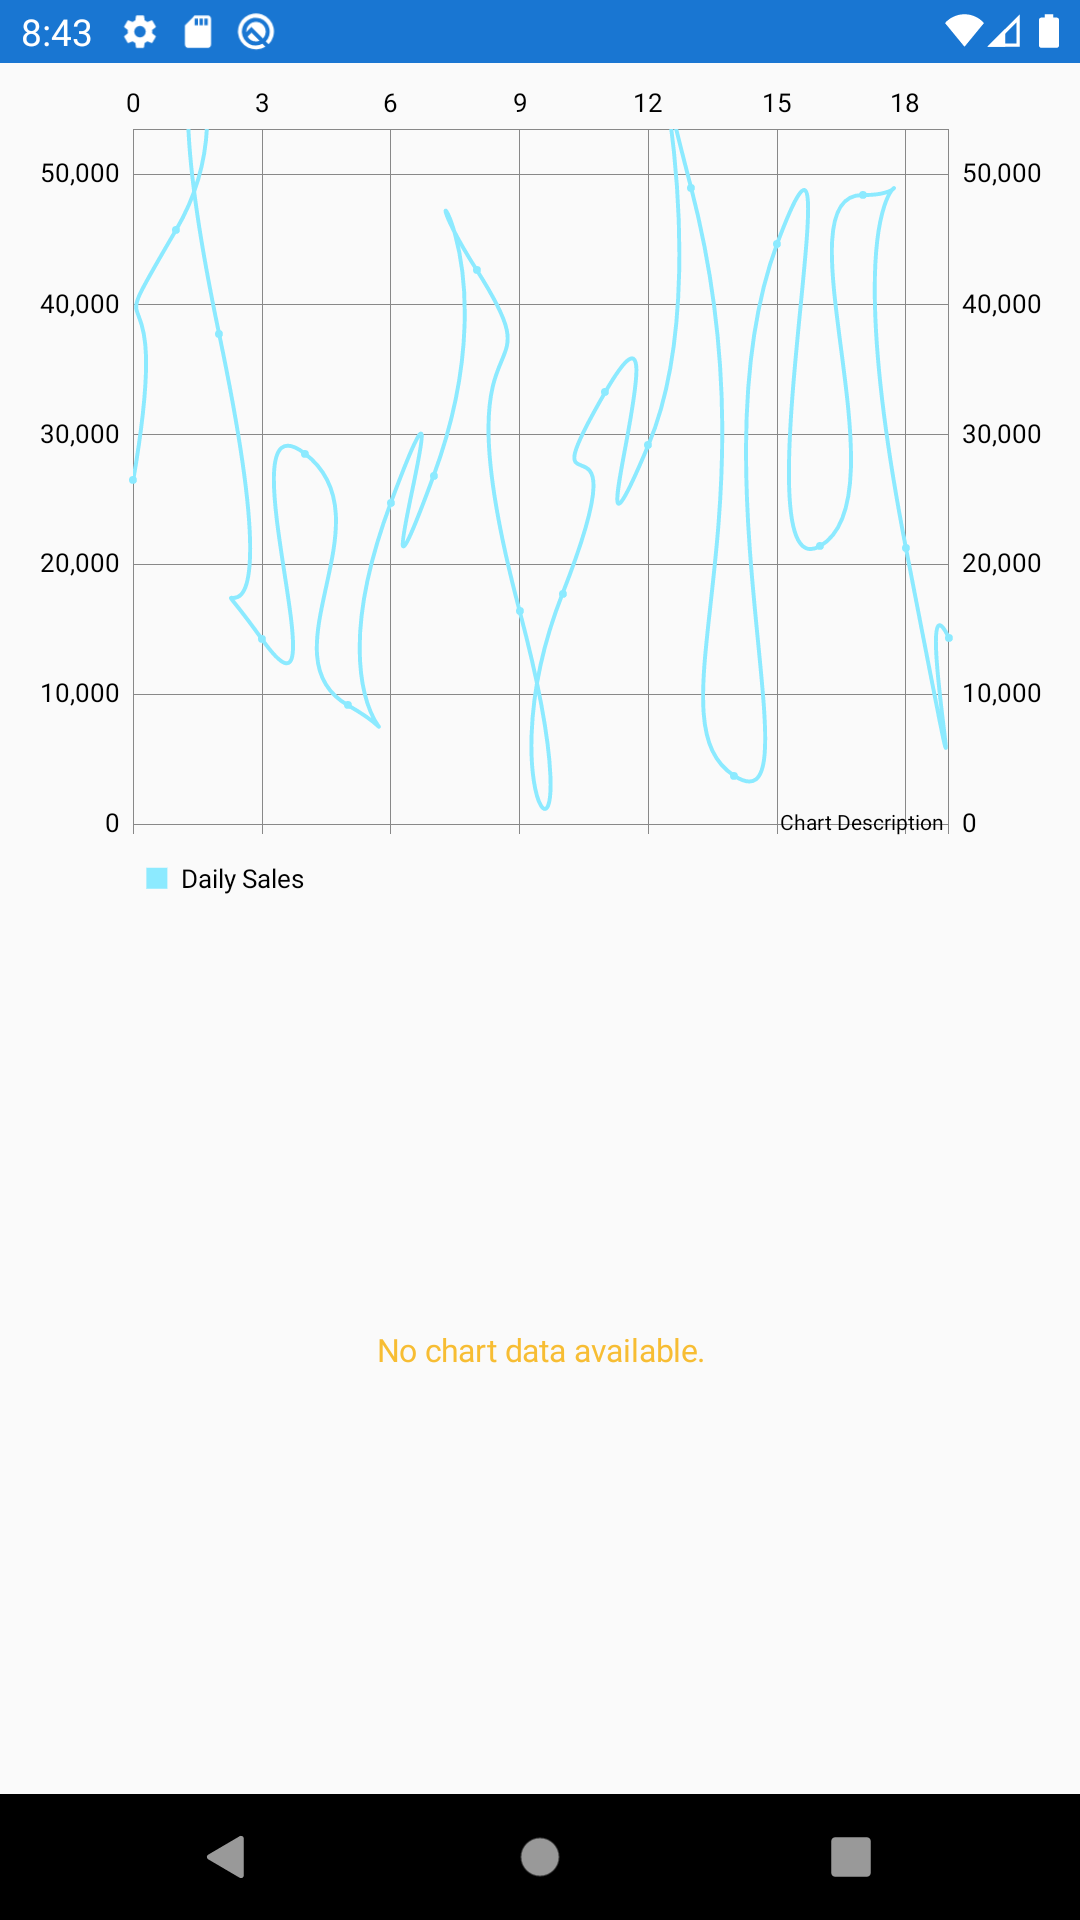
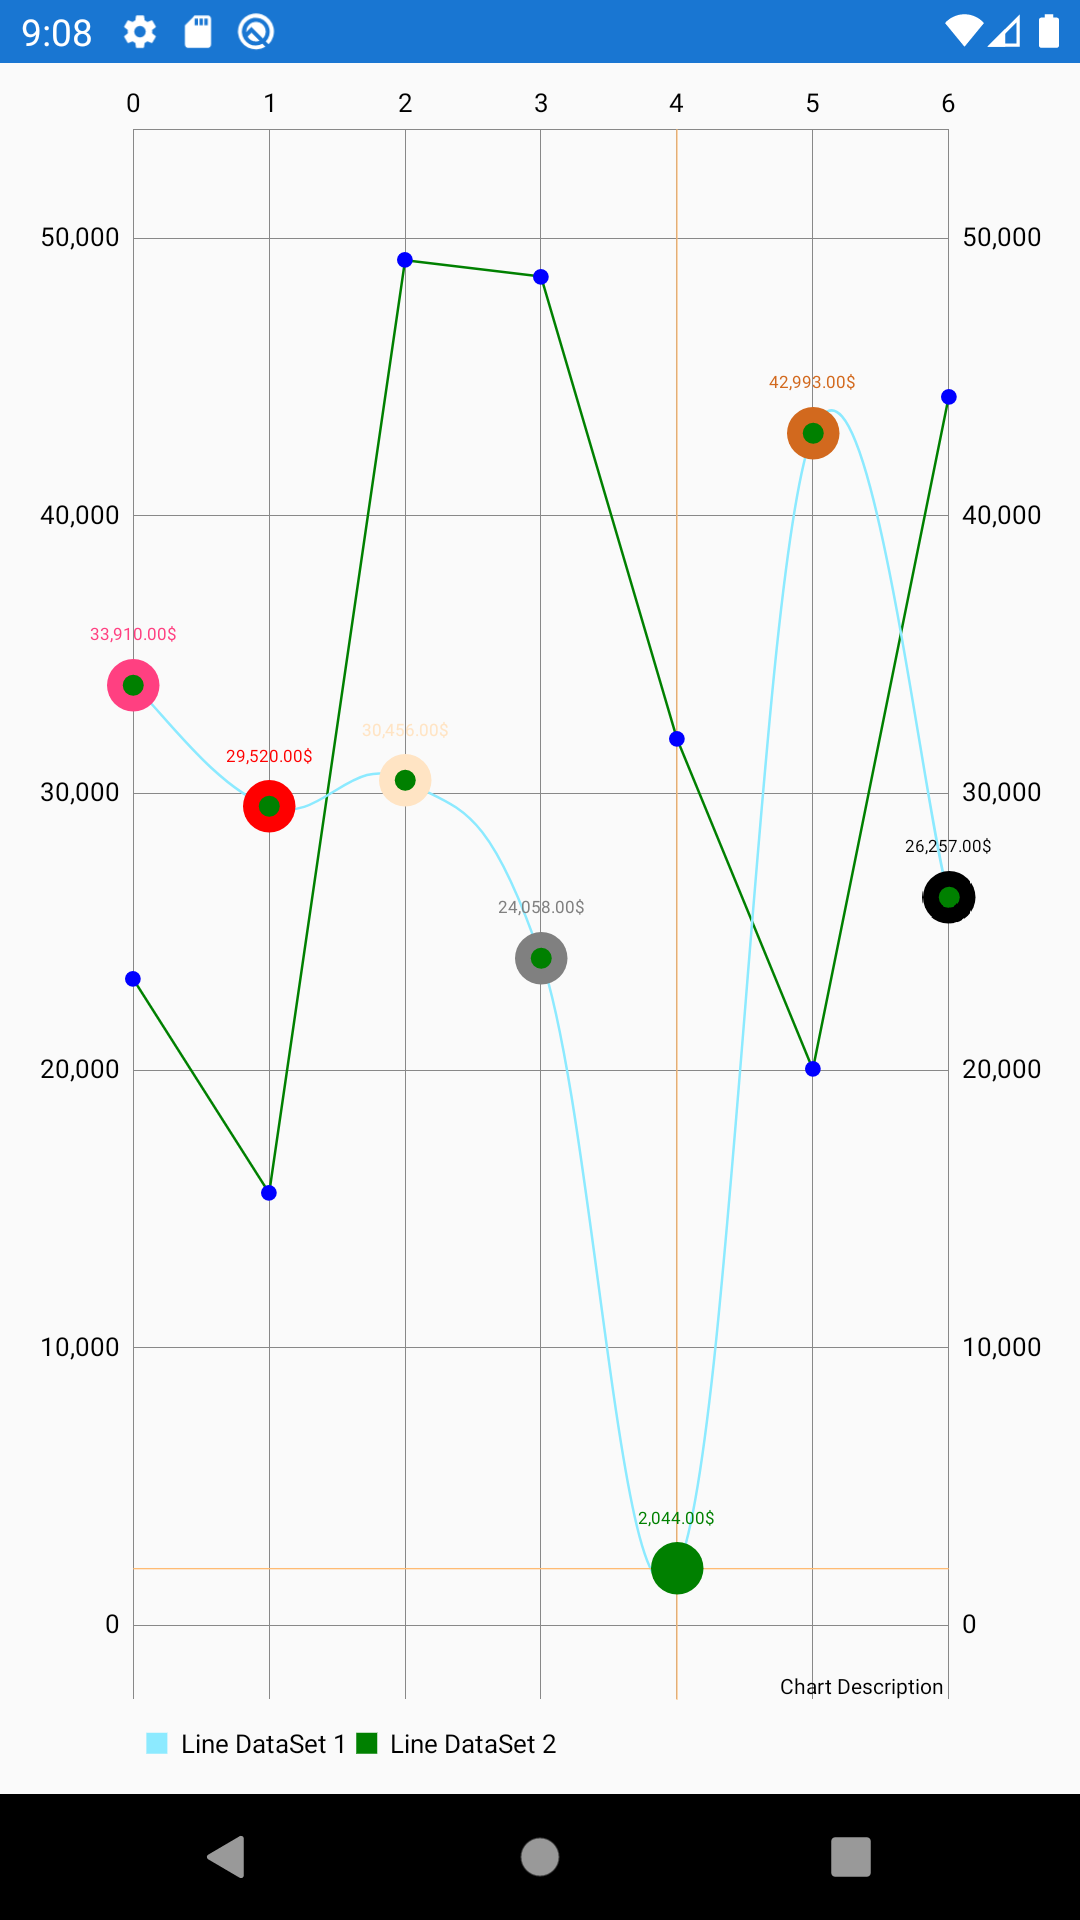
line series preview changes

diff --git a/GraphInXamarinForms/GraphInXamarinForms/LineChartPage.xaml b/GraphInXamarinForms/GraphInXamarinForms/LineChartPage.xaml
@@ -16,10 +16,7 @@
                 HorizontalOptions="FillAndExpand"
                 VerticalOptions="FillAndExpand" />
 
-            <ultimateChart:SupportLineChartExtended
-                x:Name="chart2"
-                HorizontalOptions="FillAndExpand"
-                VerticalOptions="FillAndExpand" />
+
         </StackLayout>
     </ContentPage.Content>
 </ContentPage>

diff --git a/GraphInXamarinForms/GraphInXamarinForms/LineChartPage.xaml.cs b/GraphInXamarinForms/GraphInXamarinForms/LineChartPage.xaml.cs
@@ -55,156 +55,156 @@ namespace GraphInXamarinForms
         {
             base.OnAppearing();
 
-            var entries = new List<EntryChart>();
-
-            var random = new Random();
-            for (int i = 0; i < 20; i++)
-            {
-                entries.Add(new EntryChart(i, random.Next(1000, 50000)));
-            }
-
-            //for (int i = 1; i <= DateTime.DaysInMonth(DateTime.Now.Year, DateTime.Now.Month); i++)
-            //{
-            //    var ordersForDay = ordersResponse.Orders.Where(x => x.DatePlacedLocal.Value.Day.Equals(i)).ToList();
-            //    float amount = 0.1f;
-
-            //    foreach (var order in ordersForDay)
-            //        amount += float.Parse(order.GrandTotal);
-
-            //    var entry = new EntryChart(i - 1, amount);
-            //    entries.Add(entry);
-            //}
-
-            var dataSet = new LineDataSetXF(entries, "Daily Sales")
-            {
-                //Colors = new List<Color> { App.GetAppResourceColorByKey("NetoDarkBlue") },
-                //CircleColors = new List<Color> { App.GetAppResourceColorByKey("NetoDarkBlue") },
-                DrawCircleHole = false,
-                DrawValues = false,
-                CircleRadius = 1.5f,
-                //GradientColor = new GradientColor(App.GetAppResourceColorByKey("NetoDarkBlue"), App.GetAppResourceColorByKey("NetoLightBlue")),
-                FillAlpha = 0.2f,
-                DrawFilled = true,
-                LineWidth = 1.5f,
-                CubicIntensity = 10.0f,
-                Mode = LineDataSetMode.CUBIC_BEZIER
-            };
-
-            var lineChartData = new LineChartData(new List<ILineDataSetXF>() { dataSet });
-
-            var xAxisConfig = new XAxisConfig()
-            {
-                DrawGridLines = false,
-                XAXISPosition = XAXISPosition.BOTTOM
-            };
-
-            chart.AnimationX = new AnimatorXF()
-            {
-                Duration = 5,
-                EasingType = EasingOptionXF.EaseInOutBounce
-            };
-
-            chart.XAxis = xAxisConfig;
-            chart.AxisLeft.GridColor = Color.White;
-
-            chart.AxisRight.DrawGridLinesBehindData = false;
-            chart.AxisRight.Enabled = false;
-
-            chart.AxisLeft.DrawGridLinesBehindData = false;
-            chart.AxisLeft.Enabled = false;
-
-            chart.DescriptionChart.Text = string.Empty;
-
-            chart.Legend.Enabled = false;
-
-            chart.ChartData = lineChartData;
-
-
-
             //var entries = new List<EntryChart>();
-            //var entries2 = new List<EntryChart>();
-            //var labels = new List<string>();
 
             //var random = new Random();
-            //for (int i = 0; i < 7; i++)
+            //for (int i = 0; i < 20; i++)
             //{
-            //    entries.Add(new EntryChart(i, random.Next(1000,50000)));
-            //    entries2.Add(new EntryChart(i, random.Next(1000,50000)));
-            //    labels.Add("Entry" + i);
+            //    entries.Add(new EntryChart(i, random.Next(1000, 50000)));
             //}
 
-            //var FontFamily = "";
-            //switch (Device.RuntimePlatform)
-            //{
-            //    case Device.iOS:
-            //        FontFamily = "Pacifico-Regular";
-            //        break;
-            //    case Device.Android:
-            //        FontFamily = "Fonts/Pacifico-Regular.ttf";
-            //        break;
-            //    default:
-            //        break;
-            //}
-            //var dataSet4 = new LineDataSetXF(entries, "Line DataSet 1")
-            //{
-            //    CircleRadius = 10,
-            //    CircleHoleRadius = 4f,
-            //    CircleColors = new List<Color>(){
-            //        Color.Accent, Color.Red, Color.Bisque, Color.Gray, Color.Green, Color.Chocolate, Color.Black
-            //    },
-            //    CircleHoleColor = Color.Green,
-            //    ValueColors = new List<Color>(){
-            //        Color.Accent, Color.Red, Color.Bisque, Color.Gray, Color.Green, Color.Chocolate, Color.Black
-            //    },
-            //    Mode = LineDataSetMode.CUBIC_BEZIER,
-            //    ValueFormatter = new CustomDataSetValueFormatter(),
-            //    ValueFontFamily = FontFamily,
-            //    FillAlpha = 0.8f,
-            //    GradientColor = new GradientColor(Color.Blue,Color.Red,30),
-            //    DrawFilled = true,
-            //};
+            ////for (int i = 1; i <= DateTime.DaysInMonth(DateTime.Now.Year, DateTime.Now.Month); i++)
+            ////{
+            ////    var ordersForDay = ordersResponse.Orders.Where(x => x.DatePlacedLocal.Value.Day.Equals(i)).ToList();
+            ////    float amount = 0.1f;
 
-            //Xamarin.Forms.OnPlatform<string> onPlatform = (Xamarin.Forms.OnPlatform<string>)Application.Current.Resources["PacificoRegular"];
-            //var xxx = onPlatform.Default;
+            ////    foreach (var order in ordersForDay)
+            ////        amount += float.Parse(order.GrandTotal);
 
-            //var dataSet5 = new LineDataSetXF(entries2, "Line DataSet 2")
+            ////    var entry = new EntryChart(i - 1, amount);
+            ////    entries.Add(entry);
+            ////}
+
+            //var dataSet = new LineDataSetXF(entries, "Daily Sales")
             //{
-            //    Colors = new List<Color>{
-            //        Color.Green
-            //    },
-            //    CircleHoleColor = Color.Blue,
-            //    CircleColors = new List<Color>{
-            //        Color.Blue
-            //    },
-            //    CircleRadius = 3,
+            //    //Colors = new List<Color> { App.GetAppResourceColorByKey("NetoDarkBlue") },
+            //    //CircleColors = new List<Color> { App.GetAppResourceColorByKey("NetoDarkBlue") },
+            //    DrawCircleHole = false,
             //    DrawValues = false,
-            //    GradientColor = new GradientColor(Color.Red,Color.Green)
+            //    CircleRadius = 1.5f,
+            //    //GradientColor = new GradientColor(App.GetAppResourceColorByKey("NetoDarkBlue"), App.GetAppResourceColorByKey("NetoLightBlue")),
+            //    FillAlpha = 0.2f,
+            //    DrawFilled = true,
+            //    LineWidth = 1.5f,
+            //    CubicIntensity = 10.0f,
+            //    Mode = LineDataSetMode.CUBIC_BEZIER
             //};
 
-            //var data4 = new LineChartData(new List<ILineDataSetXF>() { dataSet4,dataSet5 });
+            //var lineChartData = new LineChartData(new List<ILineDataSetXF>() { dataSet });
 
-            //chart.ChartData = data4;
-            //chart.DescriptionChart.Text = "Test label chart description";
-            //chart.AxisLeft.DrawGridLines = false;
-            //chart.AxisLeft.DrawAxisLine = true;
-            //chart.AxisLeft.Enabled = true;
+            //var xAxisConfig = new XAxisConfig()
+            //{
+            //    DrawGridLines = false,
+            //    XAXISPosition = XAXISPosition.BOTTOM
+            //};
 
-            //chart.AxisRight.DrawAxisLine = false;
-            //chart.AxisRight.DrawGridLines = false;
-            //chart.AxisRight.Enabled = false;
-
-            //chart.AxisRight.FontFamily = FontFamily;
-            //chart.AxisLeft.FontFamily = FontFamily;
-            //chart.XAxis.FontFamily = FontFamily;
-
-            //chart.XAxis.XAXISPosition = XAXISPosition.BOTTOM;
-            //chart.XAxis.DrawGridLines = false;
-            //chart.XAxis.AxisValueFormatter = new TextByIndexXAxisFormatter(labels);
             //chart.AnimationX = new AnimatorXF()
             //{
-            //    Duration = 1000,
-            //    EasingType = EasingOptionXF.EaseOutCirc
+            //    Duration = 5,
+            //    EasingType = EasingOptionXF.EaseInOutBounce
             //};
+
+            //chart.XAxis = xAxisConfig;
+            //chart.AxisLeft.GridColor = Color.White;
+
+            //chart.AxisRight.DrawGridLinesBehindData = false;
+            //chart.AxisRight.Enabled = false;
+
+            //chart.AxisLeft.DrawGridLinesBehindData = false;
+            //chart.AxisLeft.Enabled = false;
+
+            //chart.DescriptionChart.Text = string.Empty;
+
+            //chart.Legend.Enabled = false;
+
+            //chart.ChartData = lineChartData;
+
+
+
+            var entries = new List<EntryChart>();
+            var entries2 = new List<EntryChart>();
+            var labels = new List<string>();
+
+            var random = new Random();
+            for (int i = 0; i < 7; i++)
+            {
+                entries.Add(new EntryChart(i, random.Next(1000, 50000)));
+                entries2.Add(new EntryChart(i, random.Next(1000, 50000)));
+                labels.Add("Entry" + i);
+            }
+
+            var FontFamily = "";
+            switch (Device.RuntimePlatform)
+            {
+                case Device.iOS:
+                    FontFamily = "Pacifico-Regular";
+                    break;
+                case Device.Android:
+                    FontFamily = "Fonts/Pacifico-Regular.ttf";
+                    break;
+                default:
+                    break;
+            }
+            var dataSet4 = new LineDataSetXF(entries, "Line DataSet 1")
+            {
+                CircleRadius = 10,
+                CircleHoleRadius = 4f,
+                CircleColors = new List<Color>(){
+                    Color.Accent, Color.Red, Color.Bisque, Color.Gray, Color.Green, Color.Chocolate, Color.Black
+                },
+                CircleHoleColor = Color.Green,
+                ValueColors = new List<Color>(){
+                    Color.Accent, Color.Red, Color.Bisque, Color.Gray, Color.Green, Color.Chocolate, Color.Black
+                },
+                Mode = LineDataSetMode.CUBIC_BEZIER,
+                ValueFormatter = new CustomDataSetValueFormatter(),
+                ValueFontFamily = FontFamily,
+                FillAlpha = 0.8f,
+                GradientColor = new GradientColor(Color.Blue, Color.Red, 30),
+                DrawFilled = true,
+            };
+
+           // Xamarin.Forms.OnPlatform<string> onPlatform = (Xamarin.Forms.OnPlatform<string>)Application.Current.Resources["PacificoRegular"];
+            //var xxx = onPlatform.Default;
+
+            var dataSet5 = new LineDataSetXF(entries2, "Line DataSet 2")
+            {
+                Colors = new List<Color>{
+                    Color.Green
+                },
+                CircleHoleColor = Color.Blue,
+                CircleColors = new List<Color>{
+                    Color.Blue
+                },
+                CircleRadius = 3,
+                DrawValues = false,
+                GradientColor = new GradientColor(Color.Red, Color.Green)
+            };
+
+            var data4 = new LineChartData(new List<ILineDataSetXF>() { dataSet4, dataSet5 });
+
+            chart.ChartData = data4;
+            chart.DescriptionChart.Text = "Test label chart description";
+            chart.AxisLeft.DrawGridLines = false;
+            chart.AxisLeft.DrawAxisLine = true;
+            chart.AxisLeft.Enabled = true;
+
+            chart.AxisRight.DrawAxisLine = false;
+            chart.AxisRight.DrawGridLines = false;
+            chart.AxisRight.Enabled = false;
+
+            chart.AxisRight.FontFamily = FontFamily;
+            chart.AxisLeft.FontFamily = FontFamily;
+            chart.XAxis.FontFamily = FontFamily;
+
+            chart.XAxis.XAXISPosition = XAXISPosition.BOTTOM;
+            chart.XAxis.DrawGridLines = false;
+            chart.XAxis.AxisValueFormatter = new TextByIndexXAxisFormatter(labels);
+            chart.AnimationX = new AnimatorXF()
+            {
+                Duration = 1000,
+                EasingType = EasingOptionXF.EaseOutCirc
+            };
         }
     }
 }
